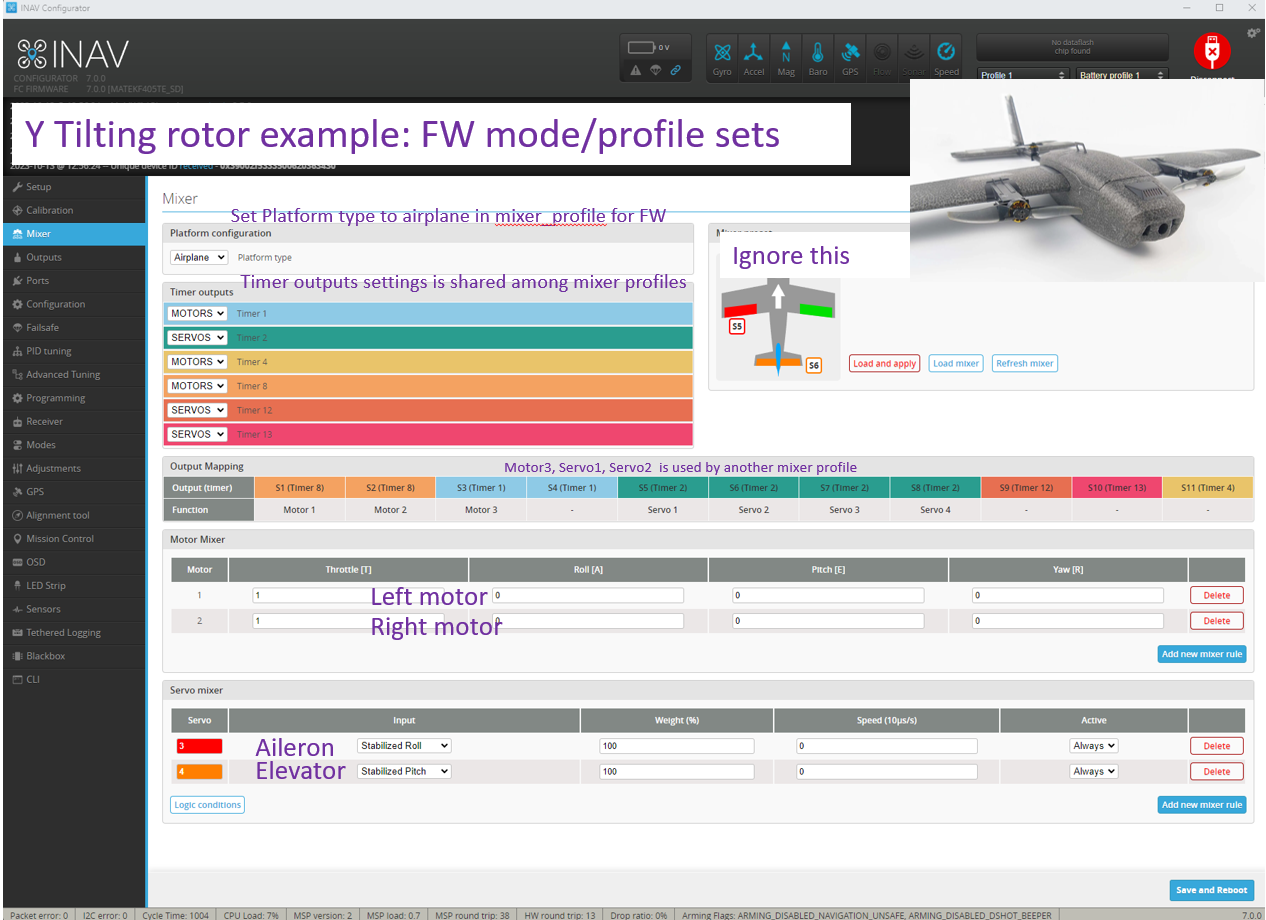
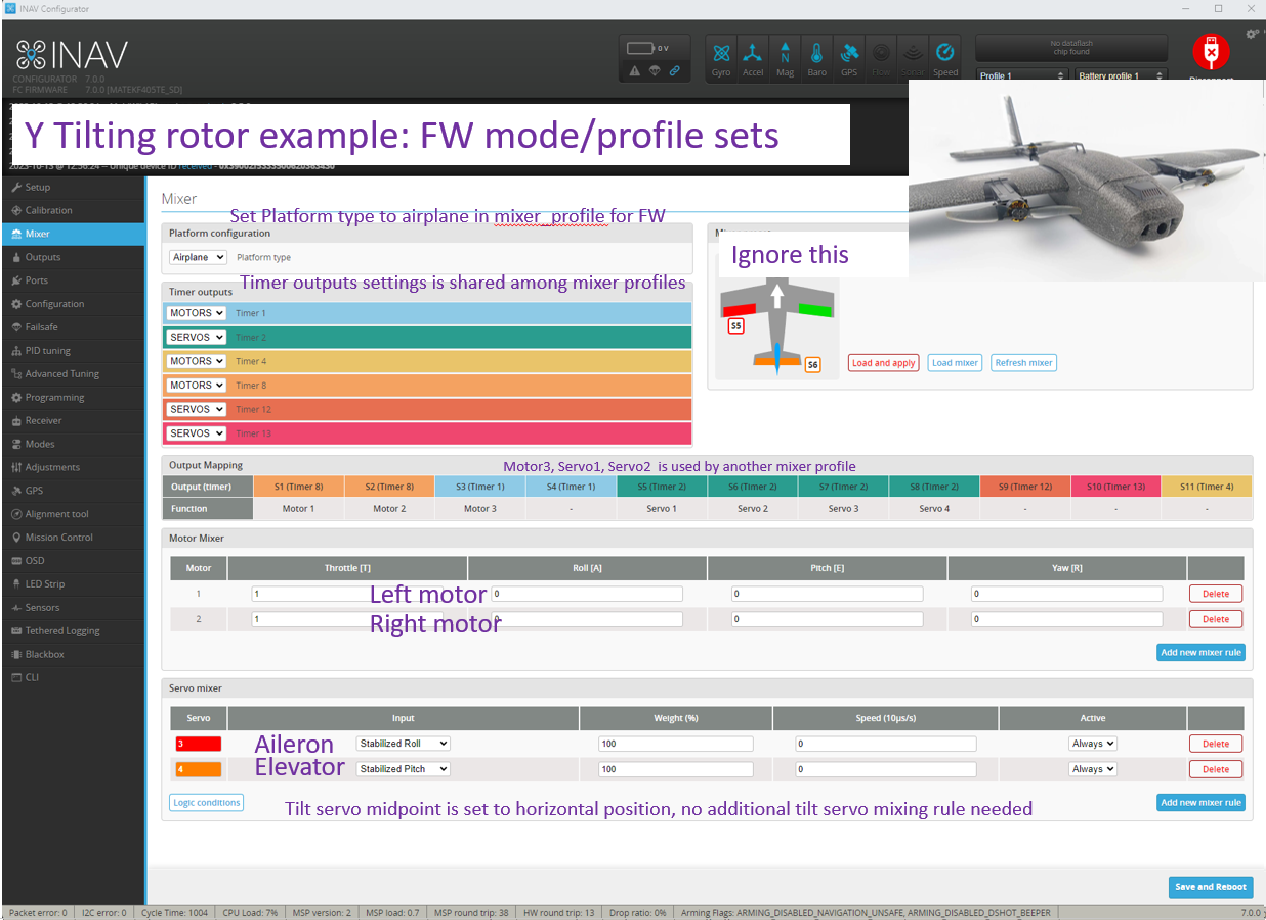
update the docs

diff --git a/docs/VTOL.md b/docs/VTOL.md
@@ -54,6 +54,8 @@ We highly value your feedback as it plays a crucial role in the development and 
 
 2. **Configure the fixed-wing/Multi-Copter:**
    - Configure your fixed-wing/Multi-Copter as you normally would, or you can copy and paste default settings to expedite the process.
+   - Dshot esc protocol availability might be limited depends on outputs and fc board you are using. change the motor wiring or use oneshot/multishot esc protocol and calibrate throttle range.
+   - You can use throttle = -1 as a placeholder for the motor you wish to stop if the motor isn't the last motor
    - Consider conducting a test flight to ensure that everything operates as expected. And tune the settings, trim the servos.
 
 ![Alt text](Screenshots/mixerprofile_fw_mixer.png)
@@ -92,9 +94,6 @@ Working in progress.
 | :-- | :-- | :-- |
 | Profile1(FW) with transition off |  Profile2(MC) with transition on  | Profile2(MC) with transition off |
 
-
-Please note the following considerations:
-
 - Profile file switching becomes available after completing the runtime sensor calibration(15-30s after booting). And It is **not available** when a navigation mode or position hold is active.
 
 - By default, `mixer_profile 1` is used. `mixer_profile 2` is used when the `MIXER PROFILE 2` mode is activate. Once configured successfully, you will notice that the profiles and model preview changes accordingly when you refresh the relevant INAV Configurator tabs. 
@@ -110,17 +109,16 @@ Please note that transition input is disabled when a navigation mode is activate
 ## Servo 'Transition Mixing': Tilting rotor configuration.
 Add new servo mixer rules, and select 'Mixer Transition' in input. Set the weight/rate according to your desired angle. This will allow tilting the motor for tilting rotor model.
 
+![Alt text](Screenshots/mixerprofile_servo_transition_mix.png)
+
 ## Motor 'Transition Mixing': Dedicated forward motor configuration
-In motor mixer
-- -2.0 < throttle < -1.0: The motor will spin regardless of the radio's throttle position at a speed of `abs(throttle) - 1` when Mixer Transition is activated.
+In motor mixer set:
+- -2.0 < throttle < -1.0: The motor will spin regardless of the radio's throttle position at a speed of `abs(throttle) - 1` multiplied by throttle range only when Mixer Transition is activated.
 
-Here's an example: This configuration will spin motor number 5 (counting from 1) at 20% throttle only in `MIXER TRANSITION` mode. For gaining speed in a "4 rotor 1 pusher" configuration:
+![Alt text](Screenshots/mixerprofile_4puls1_mix.png)
 
-```
-mmix 4 -1.200 0.000 0.000 0.000
-```
 ## TailSitter 'Transition Mixing': 
-45deg off set will be added to target pitch angle for angle mode in the firmware.
+No additional settings needed, 45deg off set will be added to target pitch angle for angle mode in the firmware.
 
 ### With aforementioned settings, your model should be able to enter fixed-wing profile without stalling.
 
@@ -129,8 +127,10 @@ mmix 4 -1.200 0.000 0.000 0.000
 ```
 set nav_disarm_on_landing = OFF #band-aid for false landing detection in NAV landing of multi-copter
 set airmode_type = STICK_CENTER_ONCE
-set ahrs_inertia_comp_method = VELNED # a method work for both FW and MC
-set tpa_on_yaw = ON #For yaw control by tilting the motor on the MC pid_profile
+set ahrs_inertia_comp_method = ADAPTIVE # will automatically use VELNED in mc mode
+set tpa_on_yaw = ON #For yaw control by tilt rotor in the MC pid_profile
+set servo_pwm_rate = 160 #For yaw control by tilt rotor model
+set servo_lpf_hz = 30 #For yaw control by tilt rotor model
 ```
 
 # Automated Switching (RTH) (Optional):
@@ -165,10 +165,10 @@ If you set `mixer_automated_switch` to `OFF` for all mixer profiles (the default
 - VTOL model operating in multi-copter (MC) mode may encounter challenges in windy conditions. Please exercise caution when testing in such conditions.
 
 ## Tilting-rotor
-- In some tilting motor models, you may experience roll or yaw oscillations when `MIXER TRANSITION` is activated. To address this issue, you can try the following:
+- In some tilting motor models, you may experience roll/yaw coupled oscillations when `MIXER TRANSITION` is activated. To address this issue, you can try the following:
     1. try hard on pid
     1. try different prop direction, prop size.
-    2. you can add servo mixing rules to compensate excessive or decouple the control input. such as reduce the weight or also use tilt servo for roll control
+    2. you can add servo mixing rules to decouple the control input. such use tilt servo for roll control
     3. Use a logic condition to ensure that these compensation servo mixing rules are active only when `MIXER TRANSITION` is activated. You can achieve this by checking the value of 'Flight:MixerTransition Active' in programming tab.
     4. Add a little roll mixing in tilt motors.
 ## Dedicated forward motor 
